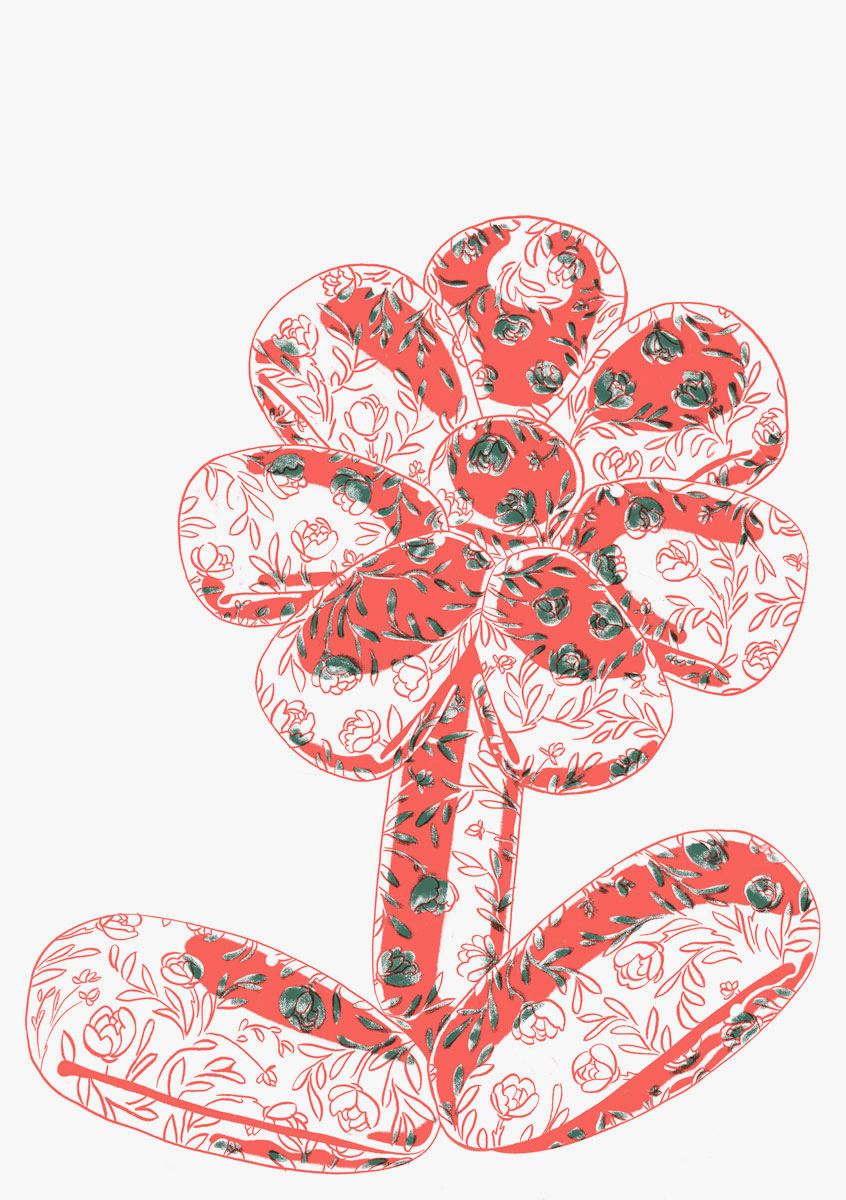
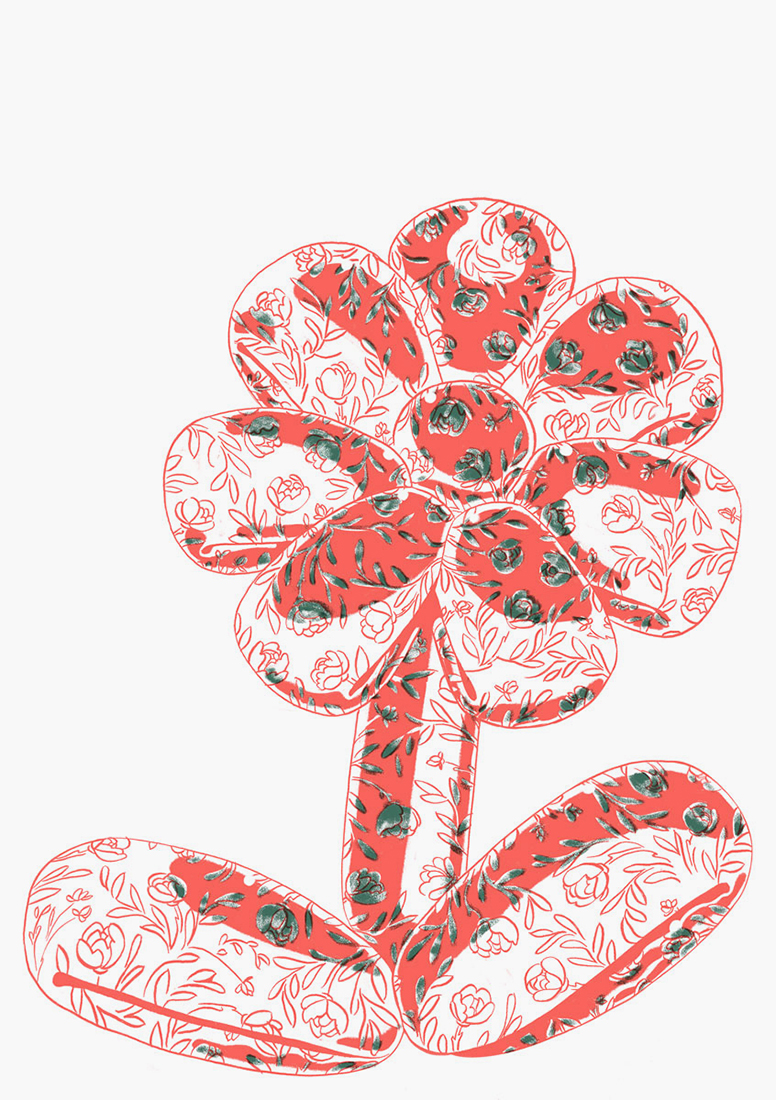
Add lbal alt

diff --git a/balloon.html b/balloon.html
@@ -97,7 +97,7 @@ body {
 	</div>
 
 	<div id="description">
-		<h3>Pen and ink illustration for the art book Last Mango in Paris, published in a risographed edition by <a href="http://www.hahahahahahahahahahahahahaha.com/" target="_blank">Look Back and Laugh Books</a>.</h3>
+		<h3>Pen and ink illustration for the art book Last Mango in Paris, published in a risographed edition by <a href="http://www.hahahahahahahahahahahahahaha.com/" target="_blank">Look Back and Laugh Books</a>. Unused alternate below.</h3>
 	</div>
 
 		<div id="footer">
@@ -106,6 +106,7 @@ body {
 
 	<div id="content">
 		<img src="style/images/balloon_1.jpg">
+		<img src="style/images/balloon_alt.jpg">
 	</div>
 
 </body>
